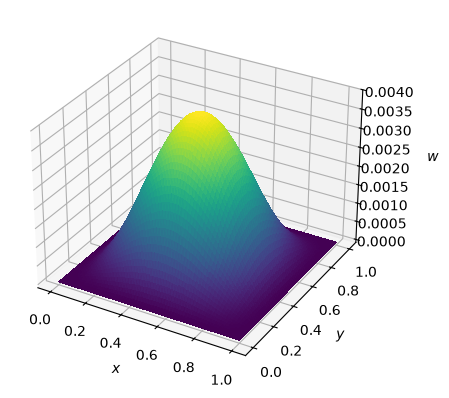
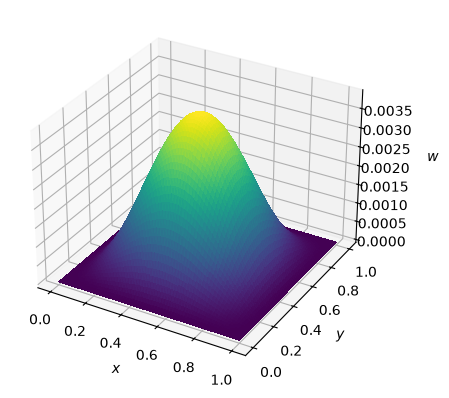
Address plate-bending review feedback
Reuse the Morley solver in the membrane limit and refresh the tutorial
figure. Conjugate the Kirchhoff test function and evaluate scalar
Dirichlet data against the dual basis when required. Check the linear
Morley trace and normal derivative moments in the boundary regression.

Honor UFL pullback overrides when plotting and stop diagram conversion
when LaTeX fails.

Assisted-by: OpenAI Codex

diff --git a/firedrake/bcs.py b/firedrake/bcs.py
@@ -311,11 +311,8 @@ class DirichletBC(BCBase, DirichletBCMixin):
     :arg V: the :class:`.FunctionSpace` on which the boundary condition
         should be applied.
     :arg g: the boundary condition values. This can be a :class:`firedrake.function.Function` on
-        ``V``, or a :class:`firedrake.function.Function` on a different space or UFL expression that can be interpolated into
-        ``V``, for example, a :class:`.Constant` , an iterable of
-        literal constants (converted to a UFL expression), or a
-        literal constant which can be pointwise evaluated at the nodes
-        of ``V``.
+        ``V`` or a UFL expression that can be interpolated or projected into
+        ``V``. Numeric literals and sequences are converted to UFL expressions.
     :arg sub_domain: the integer id(s) of the boundary region over which the
         boundary condition should be applied. The string "on_boundary" may be used
         to indicate all of the boundaries of the domain. In the case of extrusion
@@ -376,7 +373,15 @@ class DirichletBC(BCBase, DirichletBCMixin):
     @function_arg.setter
     @DirichletBCMixin._ad_annotate_function_arg
     def function_arg(self, g):
-        '''Set the value of this boundary condition.'''
+        """Set the value of this boundary condition."""
+        try:
+            g = as_ufl(g)
+        except ValueError:
+            try:
+                g = as_tensor(g)
+            except ValueError as exc:
+                raise ValueError(f"{g} is not a valid DirichletBC expression") from exc
+
         try:
             # Clear any previously set update function
             del self._function_arg_update
@@ -392,7 +397,10 @@ class DirichletBC(BCBase, DirichletBCMixin):
                 raise ValueError(f"Provided boundary value {g} does not match shape of space")
             # Special case. Scalar zero for direct Function.assign.
             self._function_arg = g
-        elif isinstance(g, ufl.classes.Expr):
+        elif isinstance(g, ufl.classes.ScalarValue) and V.finat_element.has_pointwise_dual_basis:
+            # Each point evaluation of the constant gives the same value.
+            self._function_arg = g
+        else:
             if g.ufl_shape != V.value_shape:
                 raise RuntimeError(f"Provided boundary value {g} does not match shape of space")
             try:
@@ -411,16 +419,6 @@ class DirichletBC(BCBase, DirichletBCMixin):
                 self._function_arg_update = firedrake.Projector(g, self._function_arg).project
             self._function_arg_update()
             self._coefficients = tuple(extract_coefficients(g))
-        else:
-            try:
-                g = as_ufl(g)
-                self._function_arg = g
-            except ValueError:
-                try:
-                    # Recurse to handle this through interpolation.
-                    self.function_arg = as_ufl(as_tensor(g))
-                except ValueError:
-                    raise ValueError(f"{g} is not a valid DirichletBC expression")
 
     def homogenize(self):
         '''Convert this boundary condition into a homogeneous one.

diff --git a/firedrake/pyplot/mpl.py b/firedrake/pyplot/mpl.py
@@ -1176,11 +1176,11 @@ class FunctionPlotter:
         # if the function space is the same as the last one
         Q = function.function_space()
         mesh = Q.mesh()
-        finat_element = Q.finat_element
-        if isinstance(finat_element, NeedsCoordinateMappingElement) or finat_element.mapping != "affine":
-            # The reference tabulation below is only valid for an affine
-            # mapping, so we sample the interpolant in a broken Lagrange space.
-            element = get_embedding_dg_element(Q.ufl_element(), Q.value_shape, broken_cg=True)
+        element = Q.ufl_element()
+        if isinstance(Q.finat_element, NeedsCoordinateMappingElement) or not element.pullback.is_identity:
+            # Interpolate into broken Lagrange to sample the physical values
+            # with the reference tabulation below.
+            element = get_embedding_dg_element(element, Q.value_shape, broken_cg=True)
             function = assemble(interpolate(function, FunctionSpace(mesh, element)))
             Q = function.function_space()
         dimension = mesh.topological_dimension

diff --git a/tests/firedrake/regression/test_bcs.py b/tests/firedrake/regression/test_bcs.py
@@ -51,6 +51,24 @@ def test_init_bcs_illegal(mesh, v):
         DirichletBC(FunctionSpace(mesh, "CG", 1), v, 0)
 
 
+@pytest.mark.parallel([1, 2])
+def test_morley_constant_bc():
+    mesh = UnitSquareMesh(4, 4)
+    V = FunctionSpace(mesh, "Morley", 2)
+    u = Function(V)
+    DirichletBC(V, 1, "on_boundary").apply(u)
+
+    P = FunctionSpace(mesh, "CG", 1)
+    u_linear = Function(P).interpolate(u)
+    error = u_linear - 1
+    assert sqrt(assemble(inner(error, error) * ds).real) < 1e-7
+
+    T = FunctionSpace(mesh, "HDiv Trace", 0)
+    n = FacetNormal(mesh)
+    moments = assemble(inner(grad(u), n * TestFunction(T)) * ds)
+    np.testing.assert_allclose(moments.dat.data_ro, 0, atol=1e-7)
+
+
 @pytest.mark.parametrize('measure', [dx, ds])
 def test_assemble_bcs_wrong_fs(V, measure):
     "Assemble a Matrix with a DirichletBC on an incompatible FunctionSpace."

diff --git a/tests/firedrake/regression/test_discrete_kirchhoff.py b/tests/firedrake/regression/test_discrete_kirchhoff.py
@@ -14,14 +14,14 @@ def discrete_kirchhoff_error(n):
 
     x, y = SpatialCoordinate(mesh)
     w_exact = x**2 * (1 - x)**2 * y**2 * (1 - y)**2
-    L = div(grad(div(grad(w_exact)))) * v * dx
+    L = inner(div(grad(div(grad(w_exact)))), v) * dx
 
     wh = Function(W)
     solve(a == L, wh, bcs=DirichletBC(W, 0, "on_boundary"),
           solver_parameters={"ksp_type": "preonly", "pc_type": "lu"})
 
     hessian_error = grad(interpolate(grad(wh), Theta)) - grad(grad(w_exact))
-    return sqrt(assemble(inner(hessian_error, hessian_error) * dx(degree=12)))
+    return sqrt(assemble(inner(hessian_error, hessian_error) * dx(degree=12)).real)
 
 
 def test_discrete_kirchhoff_convergence():

diff --git a/tests/firedrake/output/test_plotting.py b/tests/firedrake/output/test_plotting.py
@@ -226,6 +226,16 @@ def test_fn_plotter_mapped_element(family, degree):
 
 
 @pytest.mark.skipplot
+def test_fn_plotter_overridden_pullback():
+    mesh = UnitSquareMesh(3, 2)
+    element = WithMapping(FiniteElement("DG", mesh.ufl_cell(), 1), "L2 Piola")
+    V = FunctionSpace(mesh, element)
+    u = project(Constant(1), V)
+    fn_plotter = FunctionPlotter(mesh, num_sample_points=10)
+    np.testing.assert_allclose(fn_plotter(u), 1)
+
+
+@pytest.mark.skipplot
 def test_quiver_plot():
     mesh = UnitSquareMesh(10, 10)
     V = VectorFunctionSpace(mesh, "CG", 1)

diff --git a/demos/plate_bending/plate_bending.py.rst b/demos/plate_bending/plate_bending.py.rst
@@ -39,9 +39,10 @@ The Clamped Plate
 -----------------
 
 All three methods solve for the transverse deflection :math:`w` of the
-mid-surface :math:`\Omega = (0, 1)^2` of a plate that is clamped on its
-boundary and carries a transverse load :math:`f`. The bending energy of a
-rotation field :math:`\boldsymbol{\beta}` is
+mid-surface :math:`\Omega = (0, 1)^2` of a plate that carries a transverse
+load :math:`f`. The two Kirchhoff examples use clamped boundary conditions,
+and the MITC example prescribes the boundary deflection of its manufactured
+solution. The bending energy of a rotation field :math:`\boldsymbol{\beta}` is
 
 .. math::
 
@@ -71,11 +72,11 @@ parameters of a thin plate.
   nu = Constant(0.3)
   D = E * t**3 / (12 * (1 - nu**2))
 
-The bending term is common to all three methods, so we write it once as a
-bilinear form in a trial rotation :math:`\boldsymbol{\beta}` and a test rotation
-:math:`\boldsymbol{\theta}`. The Kirchhoff methods below pass
-:math:`\boldsymbol{\beta} = \nabla w` and :math:`\boldsymbol{\theta} = \nabla v`,
-where :math:`v` is the test function of the deflection.
+The bending term is common to all three methods, so we write it once in
+terms of a trial rotation :math:`\boldsymbol{\beta}` and a test rotation
+:math:`\boldsymbol{\theta}`. The modified Morley method uses the gradients of
+the deflection trial and test functions. The discrete Kirchhoff method
+interpolates those gradients before passing them to the bending form.
 
 .. code-block:: python
 
@@ -103,7 +104,7 @@ degree.
 .. code-block:: python
 
   def l2_error(error):
-      return sqrt(assemble(inner(error, error) * dx(degree=12)))
+      return sqrt(assemble(inner(error, error) * dx(degree=14)).real)
 
 Reissner--Mindlin Plate with MITC
 ---------------------------------
@@ -278,7 +279,7 @@ Morley discretisation, which we use below for comparison.
 
 .. code-block:: python
 
-  def modified_morley(mesh, T, f, reduced=True):
+  def modified_morley_problem(mesh, T, f, reduced=True):
       V = FunctionSpace(mesh, "Morley", 2)
       P = FunctionSpace(mesh, "Lagrange", 1)
 
@@ -297,13 +298,12 @@ Morley discretisation, which we use below for comparison.
       L = inner(f, Pi_v) * dx
 
       w_h = Function(V)
-      solve(a == L, w_h, bcs=DirichletBC(V, 0, "on_boundary"))
-      return w_h
+      return LinearVariationalProblem(a, L, w_h, bcs=DirichletBC(V, 0, "on_boundary"))
 
-We check the membrane limit with a uniform load. We compare
-:math:`\Pi_h^P w_h` with the linear Lagrange solution of the membrane problem,
-which has the same strong boundary condition, and we decrease
-:math:`\delta`.
+We check the membrane limit with a uniform load. Multiplying the membrane
+deflection by :math:`T` gives the solution of :math:`-\Delta u = f`, so we
+solve this reference problem once. We compare it with
+:math:`T \Pi_h^P w_h` while updating :math:`\delta` in the same plate solver.
 
 .. code-block:: python
 
@@ -313,18 +313,22 @@ which has the same strong boundary condition, and we decrease
   q = TestFunction(P)
   f = Constant(1.0)
 
+  a = inner(grad(p), grad(q)) * dx
+  L = inner(f, q) * dx
   w_membrane = Function(P)
-  for delta in [1e-1, 1e-2, 1e-3]:
-      T = D / Constant(delta)**2
-      w_h = modified_morley(mesh, T, f)
+  solve(a == L, w_membrane, bcs=DirichletBC(P, 0, "on_boundary"))
+  membrane_norm = norm(w_membrane).real
 
-      a = T * inner(grad(p), grad(q)) * dx
-      L = inner(f, q) * dx
-      solve(a == L, w_membrane, bcs=DirichletBC(P, 0, "on_boundary"))
+  delta = Constant(1e-1)
+  T = D / delta**2
+  plate_solver = LinearVariationalSolver(modified_morley_problem(mesh, T, f))
+  for value in [1e-1, 1e-2, 1e-3]:
+      delta.assign(value)
+      w_h = plate_solver.solve()
 
-      Pi_w_h = assemble(interpolate(w_h, P))
-      difference = errornorm(w_membrane, Pi_w_h) / norm(w_membrane)
-      print(f"Modified Morley: delta = {delta:.0e}, "
+      scaled_w_h = assemble(interpolate(T * w_h, P))
+      difference = errornorm(w_membrane, scaled_w_h).real / membrane_norm
+      print(f"Modified Morley: delta = {value:.0e}, "
             f"relative difference from the membrane = {difference:.2e}")
 
 The difference decreases as :math:`O(\delta^2)`. Thus the method gives the
@@ -353,7 +357,8 @@ the gradient of the deflection, which we evaluate on each cell.
       T = D / Constant(1e-4)**2
       w_K = kirchhoff_solution(mesh)
       f = D * div(grad(div(grad(w_K)))) - T * div(grad(w_K))
-      w_h = modified_morley(mesh, T, f, reduced=reduced)
+      problem = modified_morley_problem(mesh, T, f, reduced=reduced)
+      w_h = LinearVariationalSolver(problem).solve()
       return l2_error(grad(w_h) - grad(w_K))
 
   sizes = [4, 8, 16, 32]
@@ -403,7 +408,8 @@ For the convergence study, we use a tension that gives
       T = D / Constant(1e-2)**2
       w_K = kirchhoff_solution(mesh)
       f = D * div(grad(div(grad(w_K)))) - T * div(grad(w_K))
-      w_h = modified_morley(mesh, T, f)
+      problem = modified_morley_problem(mesh, T, f)
+      w_h = LinearVariationalSolver(problem).solve()
       return w_h, l2_error(grad(grad(w_h)) - grad(grad(w_K)))
 
 Kirchhoff Plate with Discrete Kirchhoff Triangles
@@ -440,11 +446,9 @@ The equilibrium equation for this energy is:
   = \int_\Omega f \Pi_h^P v_h \, \mathrm{d}x
   \qquad \forall v_h \in W_h.
 
-The P1 reduction is essential for the membrane term. The DKT discrete gradient
-is designed to approximate the rotation in the bending term; it is not the
-conforming gradient of the reduced deflection space. Using it in the membrane
-term would therefore define a different second-order operator and would lose
-the uniform membrane limit. The DKT method combines the two gradient
+The P1 reduction recovers the linear Lagrange membrane discretisation as
+:math:`D` tends to zero. The DKT discrete gradient approximates the
+rotation in the bending term. The DKT method combines the two gradient
 reductions in UFL as
 ``grad(interpolate(grad(w), Theta))`` for bending and
 ``grad(interpolate(w, P))`` for membrane energy.
@@ -545,9 +549,8 @@ The demo prints the following errors and rates:
    | 32 | 8.992e-03 | 0.93 | 9.602e-03 | 0.91 | 3.261e-03 | 1.00   |
    +----+-----------+------+-----------+------+-----------+--------+
 
-All three methods converge at first order in the rotation gradient. MITC
-reaches this rate only after several refinements. The rate of the modified
-Morley method does not depend on :math:`\delta`.
+The observed rates for all three methods approach first order in the
+rotation gradient as the mesh is refined.
 
 .. code-block:: python
 
